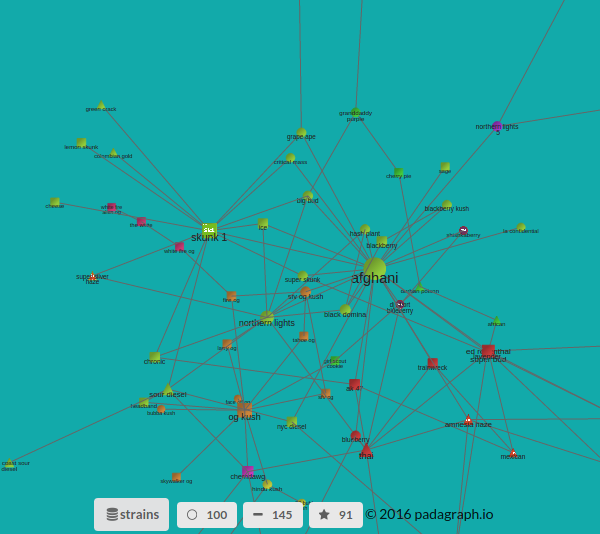
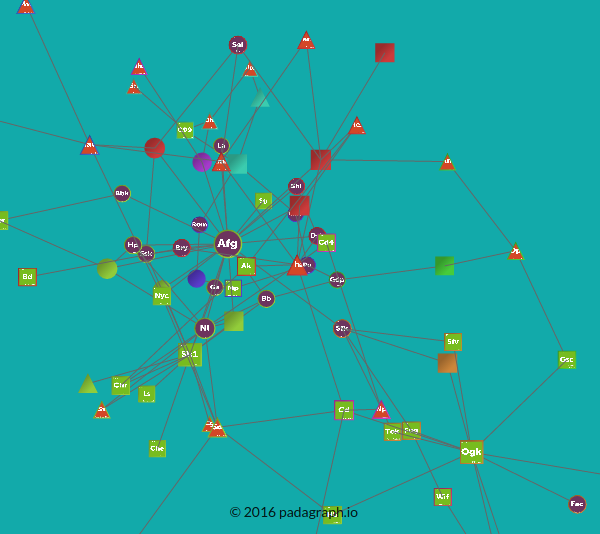
added gviz options

diff --git a/screenshot/screenshot.py b/screenshot/screenshot.py
@@ -17,17 +17,24 @@ def getScreenShot(driver, args):
     # http://stackoverflow.com/a/15870708
     
     params = {
-        'zoom' : args.zoom,
+        #template
         'color' : args.color,
-        'buttons': 0, # removes play/vote buttons 
-        'labels': 0 if args.no_labels else 1,  # removes grno_labelaph name/attributes 
+        'zoom' : args.zoom,
+        'buttons': 0, # removes play/vote buttons
+        'labels': 0 if args.no_labels else 1,  # removes graph name/attributes 
+        # gviz
+        'vtx_size' : args.vertex_size,
+        'show_text': 0 if args.no_text else 1,  # removes vertex text 
+        'show_nodes': 0 if args.no_nodes else 1,  # removes vertex only 
+        'show_edges': 0 if args.no_edges else 1,  # removes edges 
+        'show_images': 0 if args.no_images else 1,  # removes vertex images 
     }
 
     querystr = "&".join(["%s=%s" % (k,v) for k,v in params.iteritems()])
     url =  "%s/%s/%s?%s#graph" % ( args.host, args.template, args.graph, querystr )
     
     try:
-        driver.set_window_size(args.height, args.width)
+        driver.set_window_size(args.width, args.height)
         print "resize", driver.get_window_size()
         
         print "requesting", url, timeit.default_timer()
@@ -35,8 +42,8 @@ def getScreenShot(driver, args):
         driver.get(url)
         print(driver.title)
         
-        print "waiting", timeit.default_timer()
-        time.sleep(3)
+        print "waiting", timeit.default_timer(), args.wait, " sec"
+        time.sleep( args.wait)
         element = WebDriverWait(driver, 10).until(
             EC.presence_of_element_located((By.XPATH, "//div[@id='vz_threejs_main']/canvas"))
         )
@@ -86,11 +93,17 @@ def main():
     parser.add_argument("--width" , action='store', help="width", type=int, default=400)
     parser.add_argument("--height" , action='store', help="height", type=int, default=400)
     parser.add_argument("--color" , action='store', default="12AAAA")
+    parser.add_argument("--vertex-size" , action='store', type=int, default=0, help="(-5, 5) default 0") 
     parser.add_argument("--zoom" , action='store', type=int, default=1200)
     parser.add_argument("--no-labels" , action='store_true', default=False)
+    parser.add_argument("--no-text" , action='store_true', default=False)
+    parser.add_argument("--no-nodes" , action='store_true', default=False)
+    parser.add_argument("--no-edges" , action='store_true', default=False)
+    parser.add_argument("--no-images" , action='store_true', default=False)
 
     parser.add_argument("-d" , action='store', help="webdriver",  choices=('chromedriver', 'geckodriver', 'ghostdriver'), default='chromedriver')
     
+    parser.add_argument("--wait" , action='store', help="seconds to wait for layouts and vertex images to load", default=3., type=float)
     parser.add_argument("--host" , action='store', help="host", default="http://padagraph.io")
     parser.add_argument("-t" , action='store', help="template", dest="template",  choices=('presentation', 'iframe'), default='iframe')
     
